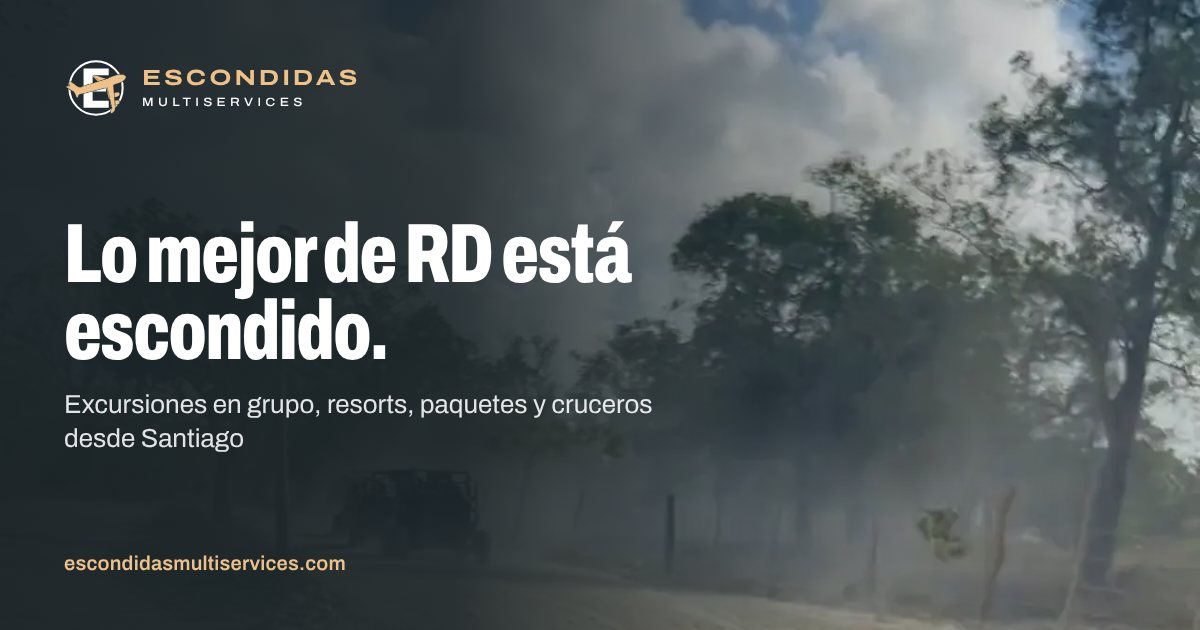
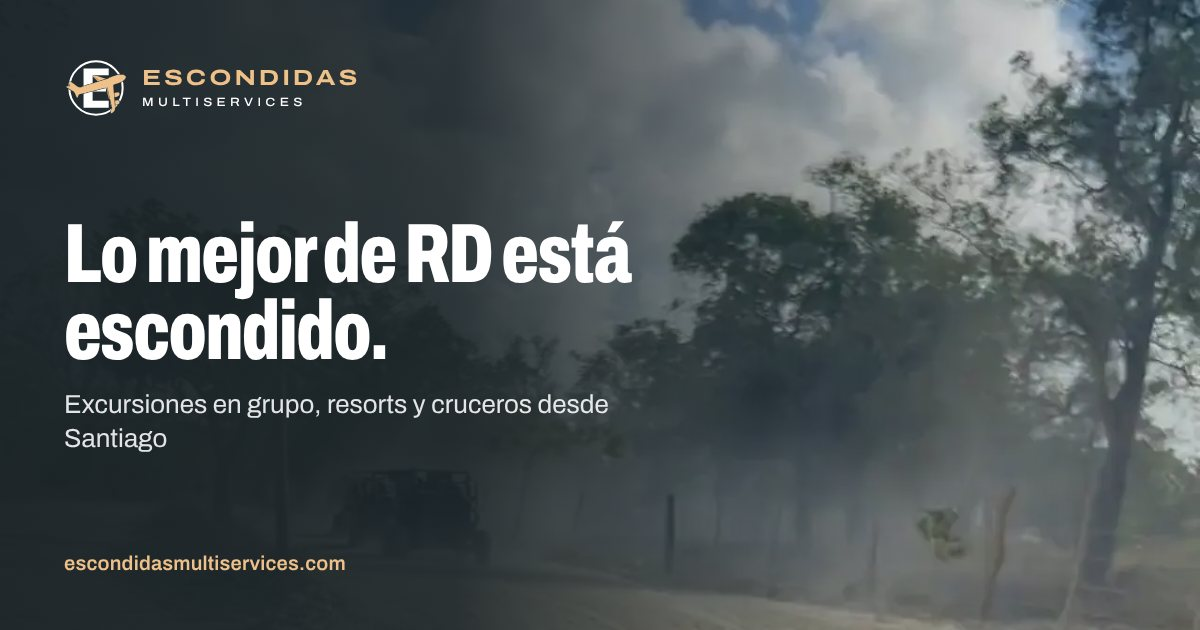
Apaga la sección de paquetes hasta que la agencia los confirme
- Sin /paquetes/, ni en el menú, el pie, el inicio o el formulario de contacto
- Fuera los 3 paquetes de ejemplo y sus fotos
- Se vuelve a encender con secciones.paquetes en contenido/datos.mjs

Claude-Session: https://claude.ai/code/session_014DoFgsnU6KxzYCSXWDs1VN

Changed region(s): [[0.0617, 0.6635, 0.2158, 0.7238], [0.3392, 0.6333, 0.555, 0.6635]]

diff --git a/public/css/estilos.css b/public/css/estilos.css
@@ -384,6 +384,8 @@ body.menu-abierto { overflow: hidden; }
   .mosaico__item--cru { grid-column: span 5; }
   .mosaico__item--paq { grid-column: span 5; }
   .mosaico__mas { grid-column: span 7; }
+  .mosaico--sin-paq .mosaico__mas { grid-column: 1 / -1; }
+  .mosaico--sin-paq .mosaico__mas > div { display: grid; grid-template-columns: repeat(2, minmax(0,1fr)); column-gap: 2.5rem; }
 }
 
 /* ── Pasos (boleto de 3 tramos) ───────────────────────────────────────────── */

diff --git a/herramientas/medios.py b/herramientas/medios.py
@@ -60,12 +60,10 @@ FUENTES = {
     'flyer-ballenas': (UP + 'b3581001-image.jpg', None, None, False),
     # Ofertas de resorts (flyers del mayorista, nov 2026)
     'flyer-tropical-cofresi': (UP + 'eb685f6b-image.png', None, None, False),
-    # Nov 2026: fotos que faltaban (Wikimedia Commons, IA de Higgsfield y recorte del flyer)
-    'rio-botafogo': (ENT + 'rio-botafogo.jpg', None, None, False),          # Wilfredor, CC0
+    # Nov 2026: fotos que faltaban (Wikimedia Commons e IA de Higgsfield)
     'hardrock-piscina': (ENT + 'hardrock-piscina.jpg', None, None, False),  # Magnus Bråth, CC BY 2.0
     'cueva-taina': (ENT + 'cueva-taina.jpg', None, None, False),            # ilustrativa, Higgsfield
     'casa-tipica': (ENT + 'casa-tipica.jpg', None, None, False),            # ilustrativa, Higgsfield
-    'cofresi-cabanas': (UP + 'eb685f6b-image.png', None, (0.17, 0.132, 0.87, 0.52), False),
     'flyer-presidential-suites': (UP + '762c4af1-image.png', None, None, False),
     'flyer-hard-rock': (UP + '96825562-image.png', None, None, False),
     'flyer-ocean-blue-sand': (UP + '9e118303-image.png', None, None, False),

diff --git a/PENDIENTES.md b/PENDIENTES.md
@@ -26,7 +26,7 @@ En la vista previa, cada dato pendiente aparece como un **recuadro punteado**. C
 - [ ] Autor y licencia de las fotos de Wikimedia: Basílica de Higüey (fachada y aérea), cuadro de la Altagracia y acantilado de Playa Macao
 - [ ] Fotos reales de la Cueva Taína y de la casa típica (hoy son imágenes ilustrativas hechas con IA en Higgsfield)
 - [ ] Confirmar permiso de la foto aérea de Hard Rock (o cambiarla por una del mayorista)
-- [x] Todas las secciones tienen foto (nov 2026): Río de Janeiro (Wilfredor, CC0), piscina de Hard Rock (Magnus Bråth, CC BY 2.0), Cofresí (recorte del flyer), Cueva Taína y casa típica (IA)
+- [x] Todas las secciones tienen foto (nov 2026): piscina de Hard Rock (Magnus Bråth, CC BY 2.0), Cueva Taína y casa típica (IA)
 
 ## Ofertas de resorts (flyers, nov 2026, ya en la web)
 - [x] Ocean Blue & Sand y Ocean El Faro (Black Friday, reservar hasta el 30 nov), Hard Rock (27 al 29 nov), The Tropical Beach & Cofresí Palm y Presidential Suites (hasta el 23 dic)
@@ -53,5 +53,5 @@ En la vista previa, cada dato pendiente aparece como un **recuadro punteado**. C
 - [ ] Agregar sus filas a la pestaña "salidas" de la hoja (ids: ballenas-cayo-levantado, cayo-arena, montecristi, tierra-tropical, el-dorado-park)
 
 ## Ejemplos que hay que confirmar o quitar
-- [ ] Paquetes: Medellín y Guatapé, Río de Janeiro, Cofresí Palm Beach (noches y precio desde)
+- [ ] Paquetes: la sección está apagada hasta que la agencia los confirme (`secciones.paquetes` en contenido/datos.mjs). Al volver, agregar los paquetes reales y su imagen para compartir en herramientas/og.mjs
 - [ ] 3 testimonios reales con permiso del cliente (texto, nombre y viaje)
